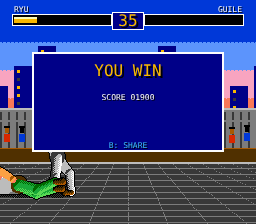
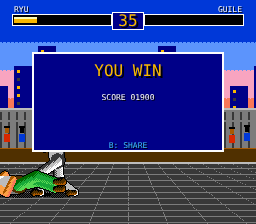
g37p: 16-bit Ryu vs Guile (HD vector fighters + PIXPASS); fix backwards knees in skelG IK
Claude-Session: https://claude.ai/code/session_01TLKWsn45b5mPjBKpKawYZm

Changed region(s): [[0.0, 0.6562, 0.3125, 0.9062]]

diff --git a/kit/cabinet/games/g37p.js b/kit/cabinet/games/g37p.js
@@ -1,0 +1,237 @@
+// NEEDS: art
+window.SIXBTN = true;
+// KEYS: Arrows move/crouch/jump. U I O = light/medium/heavy punch, J K L = light/medium/heavy kick (Z = medium punch, X = medium kick). Full move list: docs/G37-MOVELIST.md
+/* ===== G37 RYU vs GUILE: one-round fighter with the SF2 move lists for both characters, on the native per-frame 8-bit rig (pixrig.js, IK poses).
+   Inputs are real motion inputs read from a 40-frame command buffer: QCF (236), DP (623), QCB (214), charge back-forward (hold back >= TUNE.charge), charge down-up. 
+   Moves are frame-data tables (startup/active/recover, damage, hit/block stun, pushback, hit height) so they can be tuned like the real game.
+   ?char=guile plays Guile vs Ryu. BRIEF  genre: 1v1 fighter | win: KO or lead at the bell | bot/CPU: uses every move at the right range (zoning, anti-air, throws) ===== */
+const TUNE37 = { time:60, hp:100, sc:88, walk:46, back:38, wall:[22, 234], sep:22, charge:50, grav:560, jumpV:210, jumpX:62, buf:40, intro:1.5, ko:1.8, ai:{ react:[.1, .26], block:.5 } };
+const FY37 = 192, CH37 = 'ryu';
+/* move table: f=[startup,active,recover] frames @60, d=damage, hs/bs=hit/block stun frames, kb=pushback px, rx/ry=hitbox (px in front of body / px above ground), lvl high|mid|low, kd=knockdown */
+const NORMALS = {
+  sLP:{ pose:'jab', f:[3, 3, 6], d:3, hs:12, bs:8, kb:2, rx:[8, 32], ry:[48, 80], lvl:'mid' }, sMP:{ pose:'cross', f:[5, 4, 10], d:7, hs:16, bs:11, kb:3, rx:[8, 38], ry:[48, 80], lvl:'mid' }, sHP:{ pose:'hpunch', f:[7, 5, 16], d:12, hs:20, bs:14, kb:5, rx:[8, 44], ry:[46, 80], lvl:'mid' },
+  sLK:{ pose:'lkick', f:[4, 3, 8], d:3, hs:12, bs:8, kb:2, rx:[8, 38], ry:[8, 40], lvl:'mid' }, sMK:{ pose:'mkick', f:[6, 4, 12], d:8, hs:17, bs:12, kb:4, rx:[8, 44], ry:[22, 62], lvl:'mid' }, sHK:{ pose:'hkick', f:[9, 5, 18], d:13, hs:22, bs:15, kb:6, rx:[8, 52], ry:[40, 90], lvl:'mid' },
+  cLP:{ pose:'cjab', f:[3, 3, 6], d:3, hs:12, bs:8, kb:2, rx:[8, 32], ry:[24, 44], lvl:'mid' }, cMP:{ pose:'cjab', f:[5, 4, 10], d:7, hs:16, bs:11, kb:3, rx:[8, 38], ry:[24, 46], lvl:'mid' }, cHP:{ pose:'cupper', f:[6, 6, 20], d:12, hs:24, bs:12, kb:3, rx:[6, 30], ry:[20, 104], lvl:'mid', kd:true, anti:true },
+  cLK:{ pose:'clkick', f:[4, 3, 8], d:3, hs:12, bs:8, kb:2, rx:[8, 40], ry:[0, 14], lvl:'low' }, cMK:{ pose:'cmkick', f:[6, 4, 12], d:7, hs:16, bs:11, kb:3, rx:[8, 46], ry:[0, 16], lvl:'low' }, cHK:{ pose:'sweep', f:[8, 5, 26], d:12, hs:24, bs:14, kb:6, rx:[8, 58], ry:[0, 14], lvl:'low', kd:true },
+  jLP:{ pose:'jpunch', f:[2, 40, 3], d:4, hs:14, bs:9, kb:2, rx:[6, 30], ry:[-10, 52], lvl:'high', air:true }, jMP:{ pose:'jpunch', f:[3, 40, 3], d:8, hs:18, bs:12, kb:3, rx:[6, 34], ry:[-10, 52], lvl:'high', air:true }, jHP:{ pose:'jpunch', f:[4, 40, 3], d:11, hs:20, bs:14, kb:4, rx:[6, 38], ry:[-12, 54], lvl:'high', air:true },
+  jLK:{ pose:'jlkick', f:[2, 40, 3], d:4, hs:14, bs:9, kb:2, rx:[6, 34], ry:[-18, 34], lvl:'high', air:true }, jMK:{ pose:'jlkick', f:[3, 40, 3], d:8, hs:18, bs:12, kb:3, rx:[6, 40], ry:[-18, 36], lvl:'high', air:true }, jHK:{ pose:'jhkick', f:[4, 40, 3], d:11, hs:20, bs:14, kb:4, rx:[6, 46], ry:[-18, 40], lvl:'high', air:true },
+  closeHP:{ pose:'closeh', f:[5, 5, 16], d:13, hs:22, bs:12, kb:3, rx:[4, 28], ry:[40, 96], lvl:'mid' }, closeHK:{ pose:'mkick', f:[6, 4, 14], d:12, hs:20, bs:12, kb:3, rx:[4, 28], ry:[14, 52], lvl:'mid' } };
+/* specials, per character. spd = projectile px/s (L/M/H); dmg arrays are L/M/H */
+const SPECIALS = {
+  ryu:{ hadoken:{ pose:'hado', f:[11, 1, 34], proj:{ spd:[80, 110, 140], d:[8, 10, 12], hs:16, bs:11, kb:4, spawn:[26, 26] }, ry:[0, 0] },
+    shoryu:{ pose:'dp', f:[3, 14, 32], d:[10, 14, 18], hs:30, bs:16, kb:6, rx:[2, 30], ry:[10, 110], lvl:'mid', kd:true, vy:[185, 205, 225], vx:[24, 32, 40], inv:7 },
+    tatsu:{ pose:'tatsu', f:[9, 26, 16], d:[4, 4, 4], hits:[1, 2, 3], hs:22, bs:12, kb:3, rx:[0, 40], ry:[4, 70], lvl:'mid', kd:true, mv:[56, 74, 92], spin:true } },
+  guile:{ sonic:{ pose:'sonic', f:[10, 1, 26], proj:{ spd:[90, 120, 150], d:[8, 10, 12], hs:16, bs:11, kb:4, spawn:[28, 22] }, ry:[0, 0], charge:'b' },
+    flash:{ pose:'flash', f:[4, 22, 24], d:[10, 12, 14], hs:30, bs:16, kb:5, rx:[-6, 40], ry:[10, 118], lvl:'mid', kd:true, vy:[190, 205, 220], vx:[-26, -34, -42], inv:8, flip:true, charge:'d' } } };
+const THROWS = { ryu:{ fwd:{ d:14, name:'SEOI NAGE' }, back:{ d:12, name:'TOMOE NAGE' } }, guile:{ fwd:{ d:14, name:'JUDO THROW' }, back:{ d:12, name:'SUPLEX' } } };
+const BTN = ['p1', 'p2', 'p3', 'k1', 'k2', 'k3'];
+function mk37(x, ch) { return { x, ch, y:0, vy:0, vx:0, hp:TUNE37.hp, hpShow:TUNE37.hp, st:'idle', t:0, face:1, ph:0, flash:0, buf:[], prev:{}, chB:0, chD:0, lastB:{ n:0, at:-99 }, lastD:{ n:0, at:-99 }, fr:0, mv:null, stun:0, inv:0, cr:false, air:false, ai:0, plan:{}, hitDone:false, hits:0, lock:null, kb:0 }; }
+const dirNum = (i, face) => { const fx = ((i.ax !== undefined ? i.ax : (i.r ? 1 : 0) - (i.l ? 1 : 0)) * face), dy = i.d ? -1 : i.u ? 1 : (i.ay !== undefined && i.ay > .5 ? -1 : (i.ay < -.5 ? 1 : 0)); const f = fx > .3 ? 1 : fx < -.3 ? -1 : 0; return [[1, 2, 3], [4, 5, 6], [7, 8, 9]][1 + dy][f + 1]; };
+const subseq = (buf, seq, win, gap) => { let k = seq.length - 1, last = -1; for (let i = buf.length - 1; i >= Math.max(0, buf.length - win) && k >= 0; i--) { if (buf[i].d === seq[k] || (seq[k] === 6 && (buf[i].d === 3 || buf[i].d === 9) && k === seq.length - 1) || (seq[k] === 4 && buf[i].d === 7 && k === seq.length - 1)) { if (last >= 0 && last - i > gap) return false; last = i; k--; } } return k < 0; };
+const hasDir = (d, set) => set.includes(d);
+function buttons37(i) { return { p1:!!i.p1, p2:!!(i.p2 || i.a), p3:!!i.p3, k1:!!i.k1, k2:!!(i.k2 || i.b), k3:!!i.k3 }; }
+/* special detection at a button press: returns { id, str } or null */
+function special37(f, key) {
+  const str = +key[1] - 1, sp = SPECIALS[f.ch], b = f.buf, now = b[b.length - 1] || { d:5 }, punch = key[0] === 'p';
+  if (f.ch === 'ryu') { if (punch && subseq(b, [6, 2, 3], 22, 12)) return { id:'shoryu', str }; if (punch && (subseq(b, [2, 3, 6], 22, 14) || subseq(b, [2, 6], 14, 10))) return { id:'hadoken', str };
+    if (!punch && (subseq(b, [2, 1, 4], 22, 14) || subseq(b, [2, 4], 14, 10))) return { id:'tatsu', str }; }
+  else { const fwd = hasDir(now.d, [6, 3, 9]) || b.slice(-8).some(q => hasDir(q.d, [6, 3, 9])), up = hasDir(now.d, [7, 8, 9]) || b.slice(-8).some(q => hasDir(q.d, [7, 8, 9]));
+    if (punch && fwd && f.lastB.n >= TUNE37.charge && f.fr - f.lastB.at <= 12) return { id:'sonic', str }; if (!punch && up && f.lastD.n >= TUNE37.charge && f.fr - f.lastD.at <= 12) return { id:'flash', str }; }
+  return null; }
+function normal37(f, o, key) {
+  const str = +key[1] - 1, punch = key[0] === 'p', d = f.cr ? 2 : (f.buf.length ? f.buf[f.buf.length - 1].d : 5), close = Math.abs(o.x - f.x) < 34;
+  if (f.air) return (punch ? 'jP' : 'jK').replace('P', ['LP', 'MP', 'HP'][str]).replace('K', ['LK', 'MK', 'HK'][str]);
+  const pre = f.cr ? 'c' : 's', nm = pre + ['L', 'M', 'H'][str] + (punch ? 'P' : 'K');
+  if (!f.cr && close && str === 2) return punch ? 'closeHP' : 'closeHK'; return nm; }
+function throw37(S, f, o, key) {
+  const d = f.buf.length ? f.buf[f.buf.length - 1].d : 5, back = hasDir(d, [4, 1, 7]), fwd = hasDir(d, [6, 3, 9]);
+  if (!(back || fwd) || key[0] !== 'p' || key === 'p1' || f.air || f.cr) return false; if (Math.abs(o.x - f.x) > 28 || o.y > 4 || !['idle', 'walk', 'crouch', 'block'].includes(o.st)) return false;
+  f.st = 'grab'; f.t = 0; f.lock = { o, kind:fwd ? 'fwd' : 'back', x0:o.x }; o.st = 'held'; o.t = 0; sfx('catch'); return true; }
+function startMove(S, f, id, str, special) {
+  const C = special ? SPECIALS[f.ch][id] : NORMALS[id], S0 = special ? str : 0; const mv = { id, special, str:S0, C, t:0, hit:false, hitsDone:0, spawned:false, fl:C.f };
+  if (!special && C.air) { /* air attack lasts until landing */ } f.st = 'atk'; f.mv = mv; f.hitDone = false; sfx(special ? 'power' : (id.includes('K') ? 'swing' : 'punch'));
+  if (special && C.vy) { f.vy = C.vy[S0]; f.vx = C.vx[S0] * f.face; f.y = Math.max(f.y, 0.1); f.air = true; f.inv = C.inv; } if (special && C.mv) f.vx = C.mv[S0] * f.face; }
+const fdmg = (m) => m.special ? (Array.isArray(m.C.d) ? m.C.d[m.str] : m.C.d) : m.C.d;
+function boxHit37(f, o, m) {   /* is o inside f's active hitbox? */
+  const C = m.C, rx = C.rx, ry = C.ry; if (!rx) return false; const x0 = f.x + f.face * rx[0], x1 = f.x + f.face * rx[1], lo = Math.min(x0, x1), hi = Math.max(x0, x1);
+  const hb = o.st === 'knock' || o.st === 'ko' ? [0, 12] : o.cr || ['hitc', 'crouch'].includes(o.st) ? [0, 54] : [o.y, o.y + 84]; if (o.cr && o.st !== 'knock') hb[1] = 54 + o.y;
+  const ay0 = f.y + ry[0], ay1 = f.y + ry[1]; return hi > o.x - 11 && lo < o.x + 11 && ay1 > hb[0] && ay0 < hb[1]; }
+function applyHit37(S, f, o, m, dmg, hs, bs, kb, lvl, kd, proj) {
+  const back = o.buf.length && hasDir(o.buf[o.buf.length - 1].d, [4, 1, 7]), crouchBlk = o.buf.length && hasDir(o.buf[o.buf.length - 1].d, [1, 2, 3]);
+  const canBlock = ['idle', 'walk', 'crouch', 'block'].includes(o.st) && back && !o.air && (lvl !== 'low' || crouchBlk) && S.over <= 0;
+  const aiBlock = o.cpu && ['idle', 'walk', 'crouch', 'block'].includes(o.st) && o.plan.blk && (lvl !== 'low' || o.plan.crouch) && !o.air;
+  if (canBlock || aiBlock) { o.hp -= (m && m.special) || proj ? 1 : 0; o.st = 'block'; o.t = 0; o.stun = bs; o.cr = crouchBlk || (o.cpu && o.plan.crouch); o.vx = f.face * kb * 12; f.kb = -f.face * Math.max(2, kb) * 10; sfx('tick'); S.spk.push({ x:o.x - f.face * 8, y:FY37 - 54 - o.y, t:0, blk:true }); ENG.shake(S, 1); return 'block'; }
+  o.hp -= dmg; S.score += dmg * 10; sfx('hit'); const crouching = o.cr; o.cr = o.cr && !o.air; o.hit = 1;
+  if (kd || o.air) { o.st = 'knock'; o.t = 0; o.vy = 120 + (kd ? 40 : 0); o.vx = f.face * (50 + kb * 6); o.y = Math.max(o.y, .2); o.air = true; o.mv = null; o.lock = null; }
+  else { o.st = 'hit'; o.t = 0; o.stun = hs; o.vx = f.face * kb * 14; o.mv = null; o.cr = crouching; f.kb = -f.face * kb * 7; }
+  S.spk.push({ x:(f.x + o.x) / 2 + f.face * 8, y:FY37 - Math.min(70, (m && m.C.ry ? (m.C.ry[0] + m.C.ry[1]) / 2 : 54)) - f.y, t:0 }); burst(S, o.x, FY37 - 56 - o.y, W, 4); ENG.impact(S, dmg >= 11 || kd ? 'strong' : 'weak');
+  S.combo = S.last === f ? S.combo + 1 : 1; S.last = f; S.comboT = 1.3; if (o.hp <= 0) { o.hp = 0; o.st = 'knock'; o.vy = Math.max(o.vy, 150); o.vx = f.face * 70; o.air = true; o.y = Math.max(o.y, .3); S.over = .001; S.loser = o; sfx('die'); ENG.impact(S, { stop:.22, shake:10, flash:.6 }); } return 'hit'; }
+function spawnProj(S, f, m) { const P = m.C.proj; S.pr.push({ x:f.x + f.face * P.spawn[0], y:P.spawn[1], vx:f.face * P.spd[m.str], f:f, face:f.face, d:P.d[m.str], P, t:0, kind:f.ch === 'ryu' ? 'hado' : 'sonic', m }); sfx('shoot'); }
+function think37(S, me, foe, lvl) {   /* CPU / bot: returns a plan the step turns into walking, blocking, jumping and moves */
+  me.ai -= 1; if (me.ai > 0) return me.plan; const A = TUNE37.ai; me.ai = Math.round(60 * (A.react[0] + S.rng() * (A.react[1] - A.react[0])) / lvl); const dx = Math.abs(foe.x - me.x), P = {}, r = S.rng();
+  const foeAtk = foe.st === 'atk' && foe.mv, foeAir = foe.air && foe.st !== 'knock'; const ch = me.ch;
+  if (me.st === 'knock' || me.st === 'ko' || me.st === 'hit' || me.st === 'held') return (me.plan = P);
+  if (foeAtk && dx < 70 && r < A.block * lvl) { P.blk = true; P.crouch = foe.mv.C.lvl === 'low' || r < .3; return (me.plan = P); }
+  if (foeAir && dx < 60 && foe.vy < 40) { if (ch === 'ryu') P.move = 'shoryu'; else P.move = me.lastB.n >= TUNE37.charge || true ? 'flash' : 'cHP'; P.str = 1; P.fwd = 0; return (me.plan = P); }
+  if (dx > 118) { if (r < .4 && (ch === 'ryu' ? true : me.chB >= TUNE37.charge || true)) { P.move = ch === 'ryu' ? 'hadoken' : 'sonic'; P.str = Math.floor(S.rng() * 3); } else P.fwd = 1; }
+  else if (dx > 62) { if (r < .22) { P.move = ch === 'ryu' ? 'hadoken' : 'sonic'; P.str = Math.floor(S.rng() * 3); } else if (r < .3 && ch === 'ryu') { P.move = 'tatsu'; P.str = 1; } else if (r < .45) { P.jump = 1; P.fwd = 1; } else if (r < .6) P.move = ['sHK', 'sMK'][Math.floor(S.rng() * 2)]; else P.fwd = 1; }
+  else if (dx > 34) { if (r < .22) P.move = 'cHK'; else if (r < .42) P.move = ['sMP', 'sHP', 'sMK'][Math.floor(S.rng() * 3)]; else if (r < .5 && ch === 'ryu') { P.move = 'tatsu'; P.str = 0; } else if (r < .6) P.move = 'cMK'; else if (r < .68) P.back = 1; else P.fwd = r < .8 ? 1 : 0; }
+  else { if (r < .28) P.throw = r < .14 ? 'fwd' : 'back'; else if (r < .5) P.move = ['sLP', 'sMP', 'cLP', 'closeHP'][Math.floor(S.rng() * 4)]; else if (r < .6) P.move = 'cHP'; else if (r < .72) P.move = ['sLK', 'cLK', 'closeHK'][Math.floor(S.rng() * 3)]; else if (r < .82) P.back = 1; else P.move = 'sMK'; }
+  return (me.plan = P); }
+function exec37(S, f, o, P) {   /* run a CPU plan as if it were inputs */
+  if (!P) return; const ok = ['idle', 'walk', 'crouch'].includes(f.st) || (f.st === 'atk' && f.mv && f.mv.hit && !f.mv.special && P.move && SPECIALS[f.ch][P.move]);
+  if (P.blk) { f.cr = !!P.crouch; if (f.st === 'idle' || f.st === 'walk' || f.st === 'crouch') f.st = f.cr ? 'crouch' : 'idle'; }
+  if (!ok) return; if (P.throw && f.st !== 'atk') { f.buf.push({ d:P.throw === 'fwd' ? 6 : 4 }); if (throw37(S, f, o, 'p2')) { P.throw = null; return; } }
+  if (P.jump && !f.air && f.st !== 'atk') { f.vy = TUNE37.jumpV; f.vx = (P.fwd ? 1 : P.back ? -1 : 0) * f.face * TUNE37.jumpX; f.air = true; f.y = .1; f.st = 'jump'; sfx('jump'); P.jump = 0; return; }
+  if (P.move && !(f.st === 'atk' && !SPECIALS[f.ch][P.move])) { const sp = SPECIALS[f.ch][P.move]; if (sp) startMove(S, f, P.move, P.str || 0, true); else { f.cr = /^c/.test(P.move); startMove(S, f, P.move, 0, false); } P.move = null; return; }
+  if (f.st !== 'atk') { f.cr = !!P.crouch; const mvx = (P.fwd ? 1 : 0) - (P.back ? 1 : 0); f.x += mvx * f.face * (mvx < 0 ? TUNE37.back : TUNE37.walk) / 60; f.st = mvx ? 'walk' : (f.cr ? 'crouch' : 'idle'); if (mvx) f.ph += mvx * .18; } }
+/* ===== 16-bit tier: same sim + same IK skeleton (PRIG.skelG), drawn as smooth shaded vector fighters on the 3x HD canvas, then PIXPASS posterises to a 256x224 grid ===== */
+window.GLPOST_ON = false; const PIX = 3, PLV = 8;
+const PIXC = document.createElement('canvas'), PIXX = PIXC.getContext('2d', { willReadFrequently:true });
+function PIXPASS(g) { const cv = g.canvas, sw = Math.round(cv.width / PIX), sh = Math.round(cv.height / PIX); if (PIXC.width !== sw || PIXC.height !== sh) { PIXC.width = sw; PIXC.height = sh; }
+  g.save(); g.setTransform(1, 0, 0, 1, 0, 0); PIXX.imageSmoothingEnabled = true; PIXX.imageSmoothingQuality = 'high'; PIXX.clearRect(0, 0, sw, sh); PIXX.drawImage(cv, 0, 0, sw, sh);
+  const im = PIXX.getImageData(0, 0, sw, sh), d = im.data, q = 255 / (PLV - 1); for (let i = 0; i < d.length; i += 4) for (let c = 0; c < 3; c++) { let v = (d[i + c] - 128) * 1.08 + 128; v = v < 0 ? 0 : v > 255 ? 255 : v; d[i + c] = Math.round(v / q) * q; }
+  PIXX.putImageData(im, 0, 0); g.imageSmoothingEnabled = false; g.clearRect(0, 0, cv.width, cv.height); g.drawImage(PIXC, 0, 0, cv.width, cv.height); g.imageSmoothingEnabled = true; g.restore(); }
+const OL = '#0b0d14';
+function lg(g, x0, y0, x1, y1, stops) { const r = g.createLinearGradient(x0, y0, x1, y1); stops.forEach((s, i) => r.addColorStop(i / (stops.length - 1), s)); return r; }
+/* tapered limb: outline pass then lit gradient across the limb (light from upper-left) */
+function limb(g, a, b, w1, w2, cols, fl) {
+  const dx = b[0] - a[0], dy = b[1] - a[1], n = Math.hypot(dx, dy) || 1; let nx = -dy / n, ny = dx / n; if (nx + ny > 0) { nx = -nx; ny = -ny; }   // normal toward the lit side
+  const path = e => { g.beginPath(); g.moveTo(a[0] + nx * (w1 + e), a[1] + ny * (w1 + e)); g.lineTo(b[0] + nx * (w2 + e), b[1] + ny * (w2 + e)); g.arc(b[0], b[1], w2 + e, Math.atan2(ny, nx), Math.atan2(-ny, -nx), false); g.lineTo(a[0] - nx * (w1 + e), a[1] - ny * (w1 + e)); g.arc(a[0], a[1], w1 + e, Math.atan2(-ny, -nx), Math.atan2(ny, nx), false); g.closePath(); };
+  g.fillStyle = OL; path(0.9); g.fill(); const mx = (a[0] + b[0]) / 2, my = (a[1] + b[1]) / 2, w = (w1 + w2) / 2;
+  g.fillStyle = fl ? '#fff' : lg(g, mx + nx * w, my + ny * w, mx - nx * w, my - ny * w, cols); path(0); g.fill(); }
+function blob(g, x, y, rx, ry, cols, fl, rot) { g.save(); g.translate(x, y); g.rotate(rot || 0); g.fillStyle = OL; g.beginPath(); g.ellipse(0, 0, rx + .9, ry + .9, 0, 0, 6.283); g.fill(); g.fillStyle = fl ? '#fff' : lg(g, -rx, -ry, rx, ry, cols); g.beginPath(); g.ellipse(0, 0, rx, ry, 0, 0, 6.283); g.fill(); g.restore(); }
+function poly(g, pts, cols, fl) { g.beginPath(); pts.forEach((p, i) => i ? g.lineTo(p[0], p[1]) : g.moveTo(p[0], p[1])); g.closePath(); g.lineJoin = 'round'; g.lineWidth = 1.8; g.strokeStyle = OL; g.stroke(); const xs = pts.map(p => p[0]), ys = pts.map(p => p[1]); g.fillStyle = fl ? '#fff' : lg(g, Math.min(...xs), Math.min(...ys), Math.max(...xs), Math.max(...ys), cols); g.fill(); }
+function fighterHD(S, g, f, sh, sy) {
+  const C = TUNE37, r = poseOf37(S, f), J = PRIG.skelG(r.pose, r.env, r.ph, r.rot), k = C.sc / 150, ry = f.ch === 'ryu', fl = f.flash > 0, fc = f.face, ox = f.x + sh, oy = FY37 - f.y + sy;
+  const P = n => [ox + fc * J[n][0] * k, oy - J[n][1] * k], H = P('head'), Hp = P('hip'), Sh = P('sh'), big = ry ? 1 : 1.16, w = v => v * k * big;
+  const skin = ry ? ['#f6c58e', '#e0a070', '#a8683e'] : ['#f2c49a', '#d89c72', '#9c6040'], gi = ry ? ['#ffffff', '#e4e0da', '#8f8c9c'] : ['#e0c690', '#c0a06a', '#7a6038'], pants = ry ? ['#ffffff', '#d8d4d0', '#8a8898'] : ['#7c9c4c', '#587a38', '#2e4620'], glove = ['#ff6a50', '#d02828', '#7a1018'], boot = ry ? ['#e8c4a0', '#c08a60', '#7a4a2c'] : ['#6a6a78', '#3a3a48', '#1a1a24'];
+  const sc = f.st === 'ko' || f.st === 'knock' ? 1.3 : 1; g.save(); g.fillStyle = 'rgba(0,0,0,.35)'; g.beginPath(); g.ellipse(f.x + sh, FY37 + 2, Math.max(8, 17 - f.y * .08) * sc * 1.1, 3.4, 0, 0, 6.283); g.fill(); g.restore();
+  g.lineCap = 'round';
+  limb(g, Sh, P('elbB'), w(5.5), w(4.6), ry ? gi : skin, fl); limb(g, P('elbB'), P('handB'), w(4.6), w(4.2), ry ? glove : skin, fl); blob(g, P('handB')[0], P('handB')[1], w(5.2), w(5.2), ry ? glove : skin, fl);
+  limb(g, Hp, P('kneeB'), w(8.6), w(6.4), pants, fl); limb(g, P('kneeB'), P('footB'), w(6.2), w(4.4), pants, fl); const fb = P('footB'); blob(g, fb[0] + fc * w(4), fb[1] - w(1.2), w(6.4), w(3.2), boot, fl);
+  /* torso: tapered trapezoid, wider at the shoulders, with belt/waistband */
+  const ax = Sh[0] - Hp[0], ay = Sh[1] - Hp[1], an = Math.hypot(ax, ay) || 1, tx = -ay / an, ty = ax / an, ws = w(15), wh = w(11.5);
+  poly(g, [[Hp[0] + tx * wh, Hp[1] + ty * wh], [Sh[0] + tx * ws, Sh[1] + ty * ws], [Sh[0] - tx * ws, Sh[1] - ty * ws], [Hp[0] - tx * wh, Hp[1] - ty * wh]], gi, fl);
+  const bx = Hp[0] + ax * .12, by = Hp[1] + ay * .12; poly(g, [[bx + tx * wh, by + ty * wh], [bx + tx * wh * 1.02 + ax * .14, by + ty * wh + ay * .14], [bx - tx * wh + ax * .14, by - ty * wh + ay * .14], [bx - tx * wh, by - ty * wh]], ry ? ['#38384a', '#14141c', '#050508'] : ['#6a5a3a', '#3a2e1c', '#1a1208'], fl);
+  if (ry) { const nk = [Sh[0] + ax * .02, Sh[1] + ay * .02]; g.strokeStyle = '#8f8c9c'; g.lineWidth = 1; g.beginPath(); g.moveTo(nk[0] - tx * w(2), nk[1] - ty * w(2)); g.lineTo(Hp[0] + ax * .5 + tx * w(1), Hp[1] + ay * .5 + ty * w(1)); g.stroke(); }
+  else { g.fillStyle = '#c8c8d0'; g.fillRect(Sh[0] - ax * .1 - 1, Sh[1] - ay * .1, 1.6, 2.4); }
+  limb(g, Hp, P('kneeA'), w(9), w(6.8), pants, fl); limb(g, P('kneeA'), P('footA'), w(6.6), w(4.6), pants, fl); const fa = P('footA'); blob(g, fa[0] + fc * w(4), fa[1] - w(1.2), w(6.8), w(3.4), boot, fl);
+  /* head: neck, face, hair, headband tails / flat-top */
+  limb(g, Sh, H, w(5), w(4.6), skin, fl); blob(g, H[0], H[1], w(8.4), w(9.4), skin, fl);
+  if (ry) { g.fillStyle = fl ? '#fff' : '#201418'; g.beginPath(); g.ellipse(H[0] - fc * w(1.2), H[1] - w(3), w(8.8), w(7), 0, Math.PI, 6.283); g.fill(); g.fillStyle = fl ? '#fff' : '#e03030'; g.fillRect(H[0] - w(9), H[1] - w(4.4), w(18), w(3.2)); const t = S.rt * 9; for (let i = 0; i < 2; i++) { g.strokeStyle = fl ? '#fff' : '#e03030'; g.lineWidth = w(2); g.beginPath(); g.moveTo(H[0] - fc * w(8), H[1] - w(3)); g.lineTo(H[0] - fc * (w(16) + i * 3), H[1] - w(3) + Math.sin(t + i) * 2 + i * 3); g.stroke(); } }
+  else { g.fillStyle = fl ? '#fff' : '#f4dc58'; g.beginPath(); g.moveTo(H[0] - w(8.4), H[1] - w(2)); g.lineTo(H[0] - w(7), H[1] - w(13)); g.lineTo(H[0] + w(8), H[1] - w(13)); g.lineTo(H[0] + w(8.6), H[1] - w(3)); g.lineTo(H[0] + w(4), H[1] - w(5)); g.lineTo(H[0] - w(4), H[1] - w(5)); g.closePath(); g.lineWidth = 1.6; g.strokeStyle = OL; g.stroke(); g.fill(); }
+  const ex = H[0] + fc * w(4.6), ey = H[1] - w(.6); g.fillStyle = fl ? '#fff' : OL; g.fillRect(ex - .5, ey - w(1.4), 1.5, w(2.6)); g.fillRect(ex - fc * w(3.2) - .5, ey - w(1.4), 1.5, w(2.6)); g.fillRect(ex - fc * w(1) - w(2), ey - w(3.4), w(7) * 0.9, 1); g.fillRect(ex - w(1) + fc, H[1] + w(4.6), w(3.4), 1);
+  blob(g, P('handA')[0], P('handA')[1], w(5.6), w(5.6), ry ? glove : skin, fl); limb(g, Sh, P('elbA'), w(5.8), w(4.8), ry ? gi : skin, fl); limb(g, P('elbA'), P('handA'), w(4.8), w(4.4), ry ? glove : skin, fl); blob(g, P('handA')[0], P('handA')[1], w(5.6), w(5.6), ry ? glove : skin, fl);
+}
+function drawHD37(S, g) {
+  const C = TUNE37, sh = S.ecam && S.ecam.sh > 0 ? (S.rng() - .5) * S.ecam.sh * .5 : 0, sy = S.ecam && S.ecam.sh > 3 ? (S.rng() - .5) * S.ecam.sh * .3 : 0, t = S.rt;
+  g.fillStyle = lg(g, 0, 0, 0, 112, ['#14246a', '#3a5cc8', '#c86aa8', '#ffa860']); g.fillRect(0, 0, 256, 112);
+  const sun = g.createRadialGradient(176, 104, 2, 176, 104, 70); sun.addColorStop(0, 'rgba(255,230,160,.95)'); sun.addColorStop(.25, 'rgba(255,170,90,.5)'); sun.addColorStop(1, 'rgba(255,120,80,0)'); g.fillStyle = sun; g.fillRect(0, 20, 256, 100);
+  for (let i = 0; i < 14; i++) { const bx = i * 22 - ((t * 2) % 22) + sh * .3, bh = 22 + ((i * 37) % 5) * 11; g.fillStyle = lg(g, bx, 110 - bh, bx + 18, 110, ['#3a3a7a', '#1c1c46']); g.fillRect(bx, 110 - bh, 18, bh + 4); for (let wy = 0; wy < bh - 4; wy += 7) { g.fillStyle = (i + wy) % 3 ? '#ffe070' : '#4a4a8a'; g.fillRect(bx + 3, 110 - bh + 4 + wy, 3, 3); g.fillRect(bx + 10, 110 - bh + 4 + wy, 3, 3); } }
+  g.fillStyle = lg(g, 0, 108, 0, 162, ['#2a2640', '#4a3a58', '#7a5a60']); g.fillRect(0, 108, 256, 54); g.fillStyle = '#9a8a9a'; g.fillRect(0, 108, 256, 1.5);
+  for (let x = 0; x < 256; x += 8) { g.fillStyle = '#3a3050'; g.fillRect(x + sh * .5, 112, 2, 38); }
+  for (let i = 0; i < 20; i++) { const cx = i * 14 + 5 + sh * .6, bob = Math.sin(t * 5 + i * 1.7) * (S.over > 0 || S.combo > 1 ? 3 : 1), col = ['#d03030', '#3050d0', '#30a050', '#e0c030', '#a050c0'][i % 5]; g.fillStyle = OL; g.beginPath(); g.ellipse(cx + 1, 128 + bob, 4.6, 6.4, 0, 0, 6.283); g.fill(); g.fillStyle = col; g.beginPath(); g.ellipse(cx + 1, 128 + bob, 3.8, 5.6, 0, 0, 6.283); g.fill(); g.fillStyle = ['#f0c090', '#d89c70', '#a86a48'][i % 3]; g.beginPath(); g.arc(cx + 1, 121 + bob, 3.2, 0, 6.283); g.fill(); }
+  g.fillStyle = lg(g, 0, 148, 0, 224, ['#c88a5a', '#a06a42', '#6a4228', '#3a2218']); g.fillRect(0, 148, 256, 76); g.fillStyle = '#e8b078'; g.fillRect(0, 148, 256, 1.4);
+  g.strokeStyle = 'rgba(40,20,10,.45)'; g.lineWidth = .7; for (let y = 0; y < 8; y++) { g.beginPath(); g.moveTo(0, 156 + y * y * 1.1 + y * 4); g.lineTo(256, 156 + y * y * 1.1 + y * 4); g.stroke(); } for (let i = -8; i < 16; i++) { g.beginPath(); g.moveTo(128 + (i - 4) * 14, 150); g.lineTo(128 + (i - 4) * 46, 224); g.stroke(); }
+  const fs = [S.p1, S.p2].sort((p, q) => (p.st === 'knock' || p.st === 'ko') - (q.st === 'knock' || q.st === 'ko')); for (const f of fs) fighterHD(S, g, f, sh, sy);
+  g.save(); g.globalCompositeOperation = 'lighter';
+  for (const p of S.pr) { const x = p.x + sh, y = FY37 - p.y - 4; if (p.kind === 'hado') { const r = 12 + (Math.floor(p.t * 20) & 1) * 2, gr = g.createRadialGradient(x, y, 1, x, y, r * 1.5); gr.addColorStop(0, 'rgba(255,255,255,1)'); gr.addColorStop(.35, 'rgba(120,210,255,.9)'); gr.addColorStop(1, 'rgba(40,90,255,0)'); g.fillStyle = gr; g.beginPath(); g.arc(x, y, r * 1.5, 0, 6.283); g.fill(); for (let q = 1; q < 5; q++) { g.fillStyle = 'rgba(120,200,255,' + (.5 - q * .1) + ')'; g.beginPath(); g.ellipse(x - p.face * (r + q * 6), y, 6 - q, 4 - q * .6, 0, 0, 6.283); g.fill(); } }
+    else { for (let q = 0; q < 3; q++) { g.strokeStyle = ['rgba(255,240,140,.95)', 'rgba(210,150,255,.7)', 'rgba(255,255,255,.9)'][q]; g.lineWidth = 3 - q; g.beginPath(); g.arc(x - p.face * 8, y, 18 - q * 2.5, p.face > 0 ? -1.15 : Math.PI - 1.15, p.face > 0 ? 1.15 : Math.PI + 1.15); g.stroke(); } } }
+  for (const s of S.spk) { const x = s.x + sh, y = s.y, r = 6 + s.t * 70, gr = g.createRadialGradient(x, y, 0, x, y, r); gr.addColorStop(0, 'rgba(255,255,255,' + Math.max(0, 1 - s.t * 3) + ')'); gr.addColorStop(.4, (s.blk ? 'rgba(120,230,255,.6)' : 'rgba(255,220,80,.6)')); gr.addColorStop(1, 'rgba(255,120,40,0)'); g.fillStyle = gr; g.beginPath(); g.arc(x, y, r, 0, 6.283); g.fill(); }
+  g.restore();
+  const bar = (x, wd, f, rev) => { const cur = wd * f.hp / C.hp, tr = wd * f.hpShow / C.hp; g.fillStyle = '#fff'; g.fillRect(x - 2, 13, wd + 4, 13); g.fillStyle = OL; g.fillRect(x - 1, 14, wd + 2, 11); g.fillStyle = '#d02828'; g.fillRect(rev ? x + wd - tr : x, 16, tr, 7); g.fillStyle = lg(g, 0, 16, 0, 23, ['#fff080', '#f0c020', '#c08010']); g.fillRect(rev ? x + wd - cur : x, 16, cur, 7); };
+  bar(14, 96, S.p1, false); bar(146, 96, S.p2, true); g.fillStyle = '#fff'; g.fillRect(112, 11, 32, 19); g.fillStyle = lg(g, 0, 12, 0, 29, ['#303a8a', '#10143a']); g.fillRect(113, 12, 30, 17);
+}
+
+const GAME = kit({ id:'g37p', t1:'RYU VS', t2:'GUILE', sub:'16-BIT. EVERY MOVE.', seed:937, off:37, secs:60, music:MUS(156, -16, true),
+  setup(S) { const q = new URLSearchParams(location.search).get('char'), me = q === 'guile' ? 'guile' : 'ryu'; S.p1 = mk37(78, me); S.p2 = mk37(178, me === 'ryu' ? 'guile' : 'ryu'); S.p2.face = -1; S.p2.cpu = true; S.pr = []; S.spk = []; S.intro = 0; S.over = 0; S.loser = null; S.combo = 0; S.comboT = 0; S.last = null; S.rt = 0; S.timeLeft = TUNE37.time; S.fight = false; S.log = ''; S.throwName = ''; S.dummy = !!new URLSearchParams(location.search).get('dummy'); },
+  step(S, dt, inp) { const C = TUNE37, A = S.p1, B = S.p2; S.rt += dt;
+    if (S.over > 0) { S.over += dt; if (S.over > C.ko) return finish(S, S.loser === B ? 'YOU WIN' : 'YOU LOSE', S.loser === B ? Math.round(A.hp) * 5 : 0); }
+    S.intro += dt; if (S.intro < C.intro) { A.ph += dt * 4; B.ph += dt * 4; return; } if (!S.fight) { S.fight = true; sfx('go'); }
+    if (S.over <= 0) { S.timeLeft -= dt; if (S.timeLeft <= 0) { S.timeLeft = 0; S.over = .001; S.loser = A.hp >= B.hp ? B : A; } }
+    for (const [f, o] of [[A, B], [B, A]]) { f.fr++; f.face = f.lock || ['atk', 'grab'].includes(f.st) && f.mv ? f.face : (o.x >= f.x ? 1 : -1); if (f.st !== 'atk') f.face = o.x >= f.x ? 1 : -1; f.flash = Math.max(0, f.flash - dt); f.hpShow += (f.hp - f.hpShow) * Math.min(1, dt * 2.2); if (f.inv > 0) f.inv--; f.cr = f.cr && !f.air;
+      const free = S.over <= 0 && !['ko', 'knock', 'held'].includes(f.st); let I = {}, plan = null;
+      if (f === A && !S.att && !S.botOn) I = inp; else if (f === A) { I = inp.cmdI || {}; plan = think37(S, f, o, 1.0); } else plan = S.dummy ? {} : think37(S, f, o, .5);
+      const d = plan ? 5 : dirNum(I, f.face); f.buf.push({ d }); if (f.buf.length > C.buf) f.buf.shift();
+      const backNow = hasDir(d, [1, 4, 7]), downNow = hasDir(d, [1, 2, 3]), upNow = hasDir(d, [7, 8, 9]);
+      if (backNow) f.chB++; else if (f.chB) { f.lastB = { n:f.chB, at:f.fr }; f.chB = 0; } if (downNow) f.chD++; else if (f.chD) { f.lastD = { n:f.chD, at:f.fr }; f.chD = 0; }
+      const bt = plan ? {} : buttons37(I), pressed = []; for (const k of BTN) if (bt[k] && !f.prev[k]) pressed.push(k); f.prev = bt;
+      if (!free) { if (f.st === 'ko' || f.st === 'knock') {} }
+      // ---- state machine
+      if (f.st === 'hit' || f.st === 'block') { f.stun--; if (f.stun <= 0) { f.st = f.cr ? 'crouch' : 'idle'; } f.t++; }
+      else if (f.st === 'held') { f.t++; }
+      else if (f.st === 'knock') { f.t++; }
+      else if (f.st === 'ko') { f.t++; if (f.t > 34 && S.over <= 0) { f.st = 'getup'; f.t = 0; f.inv = 24; } }
+      else if (f.st === 'getup') { f.t++; if (f.t > 18) { f.st = 'idle'; f.t = 0; } }
+      else if (f.st === 'grab') { f.t++; const L = f.lock; const T = 28; const k = Math.min(1, f.t / T);
+        if (f.t === 12) { sfx('punch'); S.throwName = THROWS[f.ch][L.kind].name; S.throwT = 1.2; }
+        if (f.t >= 12) { const p = (f.t - 12) / (T - 12); const ox = L.kind === 'fwd' ? f.x + f.face * 18 - f.face * 44 * p : f.x + f.face * 18 + f.face * 14 * p; L.o.x = ox; L.o.y = Math.sin(Math.min(1, p) * Math.PI) * (L.kind === 'fwd' ? 50 : 34); }
+        if (f.t >= T) { const o2 = L.o; o2.st = 'knock'; o2.t = 0; o2.vy = L.kind === 'fwd' ? 60 : 90; o2.vx = (L.kind === 'fwd' ? -1 : 1) * f.face * 30; o2.air = true; o2.y = Math.max(o2.y, .3); o2.hp -= THROWS[f.ch][L.kind].d; S.score += 140; ENG.impact(S, 'strong'); sfx('hit'); if (o2.hp <= 0) { o2.hp = 0; S.over = .001; S.loser = o2; } f.st = 'idle'; f.lock = null; } }
+      else if (f.st === 'atk') {
+        const m = f.mv, Cc = m.C; m.t++; const [s, a, r] = Cc.f; const act = m.t > s && m.t <= s + a, total = s + a + r;
+        if (m.special && Cc.proj && m.t === s && !m.spawned) { m.spawned = true; spawnProj(S, f, m); }
+        if (act && !m.special && !f.hitDone && boxHit37(f, o, m) && o.inv <= 0 && !['ko', 'held', 'getup'].includes(o.st)) { f.hitDone = true; m.hit = true; const res = applyHit37(S, f, o, m, Cc.d, Cc.hs, Cc.bs, Cc.kb, Cc.lvl, Cc.kd, false); f.hold = res === 'hit' ? 6 : 3; }
+        if (act && m.special && !Cc.proj) { const hits = Cc.hits ? Cc.hits[m.str] : 1, every = Cc.hits ? Math.floor(a / hits) : a; if (m.hitsDone < hits && (m.t - s) % Math.max(1, every) === 1 && boxHit37(f, o, m) && o.inv <= 0 && !['ko', 'held', 'getup'].includes(o.st)) { m.hitsDone++; const last = m.hitsDone >= hits; m.hit = true; applyHit37(S, f, o, m, Array.isArray(Cc.d) ? Cc.d[Cc.hits ? 0 : m.str] : Cc.d, Cc.hs, Cc.bs, last ? Cc.kb : 1, Cc.lvl, last && Cc.kd, false); if (!last && o.st === 'hit') o.stun = 8; } }
+        if (Cc.mv) { f.x += f.vx * (1 / 60); if (m.t > s + a) f.vx = 0; } if (!Cc.air && !Cc.vy && !Cc.mv) f.vx = 0;
+        if (m.t >= total && !(Cc.air && f.air)) { f.st = f.air ? 'jump' : (f.cr ? 'crouch' : 'idle'); f.mv = null; if (!f.air) f.vx = 0; f.hold = 0; } }
+      else if (free && f.st !== 'atk') {
+        const hold = (S.fight && !f.air);
+        if (pressed.length && !plan) { let did = false; for (const k of pressed) { const sp = special37(f, k); if (sp) { startMove(S, f, sp.id, sp.str, true); did = true; break; } if (throw37(S, f, o, k)) { did = true; break; } const id = normal37(f, o, k); if (id) { f.cr = f.cr || /^c/.test(id); startMove(S, f, id, 0, false); did = true; break; } } }
+        if (plan) exec37(S, f, o, plan);
+        if (f.st !== 'atk' && f.st !== 'grab') {
+          const mvx = plan ? 0 : (I.ax !== undefined ? I.ax : (I.r ? 1 : 0) - (I.l ? 1 : 0)) * f.face, wantJump = !plan && upNow && !f.air;
+          if (wantJump) { f.vy = C.jumpV; f.vx = (hasDir(d, [9]) ? 1 : hasDir(d, [7]) ? -1 : 0) * f.face * C.jumpX; f.air = true; f.y = .1; f.st = 'jump'; sfx('jump'); }
+          else if (!f.air && !plan) { f.cr = downNow; f.st = f.cr ? 'crouch' : (mvx ? 'walk' : (backNow ? 'idle' : 'idle')); if (!f.cr) { f.x += mvx * (mvx < 0 ? C.back : C.walk) / 60 * f.face; if (mvx) f.ph += mvx * f.face * .2 * f.face; } } }
+      }
+      if (f.st === 'idle' || f.st === 'crouch' || f.st === 'walk') f.ph += .05;
+      // airborne physics
+      if (f.air) { f.vy -= C.grav * dt; f.y += f.vy * dt; f.x += f.vx * dt; if (f.y <= 0 && f.vy < 0) { f.y = 0; f.air = false; burst(S, f.x, FY37, L, 3); sfx('land'); f.vy = 0;
+          if (f.st === 'knock') { f.st = 'ko'; f.t = 0; f.vx = 0; ENG.shake(S, 3); } else { if (f.st === 'atk' && f.mv && (f.mv.C.air || f.mv.C.vy)) { f.st = 'idle'; f.mv = null; } else if (f.st === 'jump') f.st = 'idle'; f.vx = 0; } } }
+      else if (f.vx && ['hit', 'block'].includes(f.st)) { f.x += f.vx * dt; f.vx *= .86; if (Math.abs(f.vx) < 2) f.vx = 0; } else if (f.st === 'ko') f.vx = 0;
+      if (f.kb) { f.x += f.kb * dt; f.kb *= .8; if (Math.abs(f.kb) < 1) f.kb = 0; } if (f.hp <= 0 && f.st === 'ko') f.inv = 99; }
+    if (S.dummy) { B.hp = TUNE37.hp; A.hp = TUNE37.hp; S.timeLeft = TUNE37.time; S.over = 0; }   /* ?dummy=1: CPU stands still and nobody dies (move-list test) */
+    // projectiles
+    for (const p of S.pr) { p.t += dt; p.x += p.vx * dt; const o = p.f === A ? B : A; const hb = o.cr ? [0, 54] : [o.y, o.y + 84];
+      if (Math.abs(p.x - o.x) < 13 && p.y + 8 > hb[0] && p.y - 8 < hb[1] && o.inv <= 0 && !['ko', 'knock', 'getup', 'held'].includes(o.st)) { p.dead = true; applyHit37(S, p.f, o, null, p.d, p.P.hs, p.P.bs, p.P.kb, 'mid', false, true); } if (p.x < -30 || p.x > 290) p.dead = true; }
+    for (let i = 0; i < S.pr.length; i++) for (let j = i + 1; j < S.pr.length; j++) if (S.pr[i].f !== S.pr[j].f && Math.abs(S.pr[i].x - S.pr[j].x) < 14) { S.pr[i].dead = S.pr[j].dead = true; S.spk.push({ x:S.pr[i].x, y:FY37 - 28, t:0 }); sfx('boom'); }
+    S.pr = S.pr.filter(p => !p.dead);
+    if (Math.abs(A.x - B.x) < C.sep && A.y < 20 && B.y < 20 && !['held'].includes(A.st) && !['held'].includes(B.st) && A.st !== 'grab' && B.st !== 'grab') { const m = (A.x + B.x) / 2, s = A.x <= B.x ? 1 : -1; A.x = m - s * C.sep / 2; B.x = m + s * C.sep / 2; }
+    for (const f of [A, B]) f.x = clamp(f.x, C.wall[0], C.wall[1]); S.comboT -= dt; if (S.comboT <= 0) S.combo = 0; if (S.throwT > 0) S.throwT -= dt; for (const s of S.spk) s.t += dt; S.spk = S.spk.filter(s => s.t < .22); },
+  draw(S) { const C = TUNE37, sh = S.ecam && S.ecam.sh > 0 ? Math.round((S.rng() - .5) * S.ecam.sh * .5) : 0, sy = S.ecam && S.ecam.sh > 3 ? Math.round((S.rng() - .5) * S.ecam.sh * .3) : 0;
+    rect(0, 0, 256, 224, K); const bands = [B, B, B, SKY, SKY, PK, PK, O]; for (let i = 0; i < 8; i++) { rect(0, i * 14, 256, 14, bands[i]); if (i) for (let x = (i % 2) * 2; x < 256; x += 4) px(x, i * 14, bands[i - 1]); }
+    for (let i = 0; i < 12; i++) { const bx = i * 24 - ((S.rt * 2) % 24) + sh * .3, bh = 24 + ((i * 37) % 5) * 10; rect(bx, 110 - bh, 18, bh + 4, N); for (let w = 0; w < bh; w += 8) rect(bx + 3, 110 - bh + 4 + w, 3, 3, (i + w) % 3 ? Y : DG); }
+    rect(0, 108, 256, 54, D); rect(0, 108, 256, 2, L); for (let x = 0; x < 256; x += 8) rect(x + sh * .5, 112, 2, 40, DG); rect(0, 120, 256, 2, D);
+    for (let i = 0; i < 18; i++) { const cx = i * 15 + 6 + sh * .6, bob = Math.round(Math.sin(S.rt * 5 + i * 1.7) * (S.over > 0 || S.combo > 1 ? 3 : 1)), col = [R, B, GR, Y, PU][i % 5]; rect(cx - 2, 132 + bob, 6, 8, col); rect(cx - 1, 126 + bob, 4, 5, i % 3 ? S : T); rect(cx - 2, 124 + bob, 6, 2, K); }
+    rect(0, 148, 256, 14, M); rect(0, 148, 256, 1, T); rect(0, 162, 256, 62, DG); for (let y = 0; y < 62; y += 6) rect(0, 162 + y, 256, 1, D);
+    for (let i = -6; i < 14; i++) { const x0 = 128 + (i - 4) * 14, x1 = 128 + (i - 4) * 40; for (let t = 0; t < 1; t += .02) px(x0 + (x1 - x0) * t + sh, 162 + t * 62, D); } rect(0, 162, 256, 2, L);
+    const fs = [S.p1, S.p2].sort((p, q) => (p.st === 'knock' || p.st === 'ko') - (q.st === 'knock' || q.st === 'ko'));
+    for (const f of fs) { const w = f.st === 'ko' ? 30 : Math.max(8, 17 - f.y * .08); for (let y = -3; y <= 3; y++) for (let x = -Math.round(w); x <= w; x++) if ((x * x) / (w * w) + (y * y) / 10 < 1 && (x + y) % 2 === 0) px(f.x + x + sh, FY37 + 2 + y, K); }
+    for (const f of fs) { const r = poseOf37(S, f); PRIG.draw('fighter', f.ch, r.pose, f.x + sh, FY37 - f.y + sy, f.face, r.ph, { sc:C.sc, flash:f.flash > 0 ? 1 : 0, env:r.env, rot:r.rot }); }
+    for (const p of S.pr) { const x = p.x + sh, y = FY37 - p.y - 4; if (p.kind === 'hado') { const r = 11 + (Math.floor(p.t * 20) & 1) * 2; for (let a = 0; a < 6.283; a += .1) for (let q = 0; q < r; q += 1) px(x + Math.cos(a) * q * 1.3, y + Math.sin(a) * q, q > r - 3 ? CY : q > r - 5 ? SKY : W); for (let k = 1; k < 4; k++) { rect(x - p.face * (r + k * 5) - 2, y + (k % 2 ? 2 : -3), 5, 2, k % 2 ? SKY : CY); } }
+      else { for (let a = -1.2; a < 1.2; a += .08) { const rr = 19; for (let q = 0; q < 4; q++) px(x + Math.cos(a) * (rr - q) * p.face * .55, y + Math.sin(a) * (rr - q), q < 2 ? Y : V); } rect(x - 1, y - 1, 3, 3, W); } }
+    for (const s of S.spk) { const x = s.x + sh, y = s.y, r = 4 + s.t * 60, c = s.blk ? CY : Y; for (let k = 0; k < 10; k++) { const a = k / 10 * 6.283, r2 = k % 2 ? r : r * .5; for (let q = r2 * .4; q < r2; q += 1) px(x + Math.cos(a) * q, y + Math.sin(a) * q, k % 3 ? c : W); } if (s.t < .08) rect(x - 3, y - 3, 7, 7, W); }
+    const bar = (x, w, f, rev) => { rect(x - 2, 14, w + 4, 12, W); rect(x - 1, 15, w + 2, 10, K); const cur = Math.round(w * f.hp / C.hp), tr = Math.round(w * f.hpShow / C.hp); rect(rev ? x + w - tr : x, 17, tr, 6, R); rect(rev ? x + w - cur : x, 17, cur, 6, f.hp > 30 ? Y : (Math.floor(S.rt * 6) & 1 ? R : Y)); rect(rev ? x + w - cur : x, 17, cur, 2, V); };
+    bar(14, 96, S.p1, false); bar(146, 96, S.p2, true); rect(112, 12, 32, 18, W); rect(113, 13, 30, 16, N); },
+  drawHD(S, g) { drawHD37(S, g); PIXPASS(g); },
+  hud(S) { txt(S.p1.ch.toUpperCase(), 14, 6, W, 8); txt(S.p2.ch.toUpperCase(), 242, 6, W, 8, 'right'); txt(String(Math.ceil(S.timeLeft)).padStart(2, '0'), 128, 14, Y, 16, 'center');
+    if (S.intro < TUNE37.intro) { if (S.intro < .85) txt('ROUND 1', 128, 84, Y, 24, 'center'); else txt('FIGHT!', 128, 84, R, 32, 'center'); }
+    if (S.combo > 1) txt(S.combo + ' HIT COMBO', 128, 40, Y, 8, 'center'); if (S.throwT > 0) txt(S.throwName, 128, 52, W, 8, 'center');
+    if (S.over > 0) txt(S.timeLeft <= 0 ? 'TIME' : 'K.O.!', 128, 80, Y, 32, 'center'); hintS(S, 'UIO PUNCH  JKL KICK  623+P DP  236+P FIREBALL', 8, 212); },
+  info(S) { const q = f => f.mv ? f.mv.id : f.st; return { x1:Math.round(S.p1.x), x2:Math.round(S.p2.x), hp1:Math.round(S.p1.hp), hp2:Math.round(S.p2.hp), st1:S.p1.st, st2:S.p2.st, mv1:q(S.p1), mv2:q(S.p2), y1:Math.round(S.p1.y), pr:S.pr.length, tl:+S.timeLeft.toFixed(1), c1:S.p1.chB, cr1:S.p1.cr ? 1 : 0, face1:S.p1.face }; },
+  bot(S, i) { S.botOn = true; i.cmdI = {}; return i; } });
+function poseOf37(S, f) {
+  const e = x => Math.max(0, Math.min(1, x));
+  if (f.st === 'atk' && f.mv) { const m = f.mv, [s, a, r] = m.C.f, t = m.t; let env = t <= s ? e(t / s) : t <= s + a ? 1 : e(1 - (t - s - a) / r); let pose = m.C.pose, rot = 0, ph = f.ph;
+    if (m.C.air && !m.special) env = e(t / 3); if (m.special && m.C.flip) { rot = 340 * Math.min(1, (t - m.C.f[0]) / 20); if (t < m.C.f[0]) rot = 0; env = 1; } if (m.special && m.C.spin) { pose = (Math.floor(t / 4) & 1) ? 'tatsu2' : 'tatsu'; env = t < s ? e(t / s) : 1; if (t > s + a) env = e(1 - (t - s - a) / r); }
+    if (m.special && m.C.pose === 'dp') { env = t < s ? e(t / s) : 1; } return { pose, env, ph, rot }; }
+  if (f.st === 'hit') return { pose:f.cr ? 'hitc' : 'hit', env:1, ph:0 }; if (f.st === 'block') return { pose:f.cr ? 'blockc' : 'block', env:1, ph:0 };
+  if (f.st === 'knock') return { pose:'knock', env:1, ph:0, rot:Math.min(120, f.t * 8) * -1 * 0 + Math.min(140, f.t * 10) };
+  if (f.st === 'ko') return { pose:'ko', env:1, ph:0 }; if (f.st === 'getup') return { pose:'getup', env:1, ph:0 };
+  if (f.st === 'held') return { pose:'hit', env:1, ph:0 }; if (f.st === 'grab') return { pose:f.t < 12 ? 'grab' : 'throw', env:f.t < 12 ? Math.min(1, f.t / 6) : 1, ph:0 };
+  if (f.st === 'jump') return { pose:'jump', env:1, ph:0 }; if (f.st === 'crouch' || f.cr) return { pose:'crouch', env:1, ph:f.ph }; if (f.st === 'walk') return { pose:'walk', env:1, ph:f.ph * 1.0 };
+  return { pose:'idle', env:1, ph:f.ph }; }
+/* QA/doc hook: window.__posesheet(char, [poses]) draws a labelled pose sheet into the screen canvas and returns a data URL (used for docs/G37-MOVELIST.md art) */
+window.__posesheet = (ch, names) => { rect(0, 0, 256, 224, K); rect(0, 150, 256, 74, DG); rect(0, 150, 256, 2, L);
+  names.forEach((p, i) => { const col = i % 4, row = Math.floor(i / 4), x = 32 + col * 64, y = 70 + row * 70, free = /^j|dp|flash|tatsu|knock/.test(p); PRIG.draw('fighter', ch, p, x, y + (free ? -6 : 0), 1, 0.5, { sc:56, env:1, rot:p === 'flash' ? 200 : p === 'knock' ? 60 : 0 }); txt(p, x, y + 6, W, 8, 'center'); });
+  for (let i = 0; i < buf.length; i++) px32[i] = PAL32[buf[i]]; ctx.putImageData(img, 0, 0); return document.getElementById('screen').toDataURL(); };

diff --git a/kit/cabinet/pixrig.js b/kit/cabinet/pixrig.js
@@ -41,7 +41,7 @@ const PRIG = (() => {
 
   /* ---- IK fighter poses (SF2-style move sets). Every pose is a handful of numbers: lean (deg), hip height, feet (x from hip, height above ground), hands (x,y relative to shoulder).
      skelG(pose, env, ph): env 0..1 blends guard -> pose peak (the game drives it from startup/active/recovery), ph = walk phase / spin phase, flips handled by `rot` (deg, + = backwards). */
-  const GUARD = { lean:6, hip:58, fa:[24, 0], fb:[-24, 0], ha:[28, 0], hb:[18, 8] };
+  const GUARD = { lean:8, hip:52, fa:[28, 0], fb:[-30, 0], ha:[28, 2], hb:[18, 8] };
   const PG = {
     idle:GUARD, crouch:{ lean:12, hip:36, fa:[34, 0], fb:[-26, 0], ha:[28, -6], hb:[18, 0] },
     jab:{ lean:8, hip:58, fa:[26, 0], fb:[-24, 0], ha:[62, 2], hb:[18, 8] }, cross:{ lean:12, hip:56, fa:[30, 0], fb:[-30, 0], ha:[68, 0], hb:[20, 6] }, hpunch:{ lean:18, hip:52, fa:[34, 0], fb:[-36, 0], ha:[76, -2], hb:[18, 6] },
@@ -56,16 +56,19 @@ const PRIG = (() => {
     sonic:{ lean:8, hip:56, fa:[34, 0], fb:[-34, 0], ha:[62, -2], hb:[-24, 12] }, flash:{ lean:0, hip:78, fa:[44, 104], fb:[-14, 40], ha:[10, 22], hb:[-10, 18] },
     hit:{ lean:-16, hip:58, fa:[16, 0], fb:[-20, 0], ha:[-10, -26], hb:[-22, -16] }, hitc:{ lean:-8, hip:36, fa:[34, 0], fb:[-26, 0], ha:[-6, -18], hb:[-14, -12] }, block:{ lean:2, hip:50, fa:[26, 0], fb:[-26, 0], ha:[24, 14], hb:[18, 20] }, blockc:{ lean:6, hip:34, fa:[34, 0], fb:[-26, 0], ha:[22, 10], hb:[16, 14] },
     knock:{ lean:-50, hip:70, fa:[20, 20], fb:[-10, 10], ha:[-20, 10], hb:[-30, 4] }, ko:{ lean:0, hip:62, fa:[6, 0], fb:[-6, 0], ha:[10, -34], hb:[-6, -30] }, getup:{ lean:30, hip:34, fa:[30, 0], fb:[-20, 0], ha:[24, -14], hb:[12, -10] } };
-  const ik = (r, p, l1, l2, sg) => { let dx = p[0] - r[0], dy = p[1] - r[1], d = Math.hypot(dx, dy), mx = l1 + l2 - 0.5; if (d > mx) { dx *= mx / d; dy *= mx / d; d = mx; } if (d < 1) d = 1;
-    const a = Math.acos(Math.max(-1, Math.min(1, (l1 * l1 + d * d - l2 * l2) / (2 * l1 * d)))), b = Math.atan2(dy, dx) + sg * a; const m = [r[0] + l1 * Math.cos(b), r[1] + l1 * Math.sin(b)]; return [m, [r[0] + dx, r[1] + dy]]; };
+  /* 2-bone IK. kind 'leg': knee on the +x (forward) side; kind 'arm': elbow on the lower side. (A fixed sign bent the knees BACKWARDS: that was the awkward-legs bug.) */
+  const ik = (r, p, l1, l2, kind) => { let dx = p[0] - r[0], dy = p[1] - r[1], d = Math.hypot(dx, dy), mx = l1 + l2 - 0.5; if (d > mx) { dx *= mx / d; dy *= mx / d; d = mx; } if (d < 1) d = 1;
+    const a = Math.acos(Math.max(-1, Math.min(1, (l1 * l1 + d * d - l2 * l2) / (2 * l1 * d)))), b0 = Math.atan2(dy, dx); let best = null;
+    for (const sg of [-1, 1]) { const b = b0 + sg * a, m = [r[0] + l1 * Math.cos(b), r[1] + l1 * Math.sin(b)], sc = kind === 'leg' ? m[0] : -m[1] - 0.15 * m[0]; if (!best || sc > best.sc) best = { m, sc }; }
+    return [best.m, [r[0] + dx, r[1] + dy]]; };
   const mix = (a, b, e) => a + (b - a) * e, mix2 = (a, b, e) => [mix(a[0], b[0], e), mix(a[1], b[1], e)];
   function skelG(pose, env, ph, rotDeg) {
     const P = PG[pose] || GUARD, e = Math.max(0, Math.min(1, env === undefined ? 1 : env)), base = (pose === 'idle' || pose === 'walk') ? GUARD : (/^(crouch|cjab|cupper|clkick|cmkick|sweep|hitc|blockc)/.test(pose) ? PG.crouch : (/^j/.test(pose) ? PG.jump : GUARD)); const J = {};
     const lean = mix(base.lean, P.lean, e), hipy = mix(base.hip, P.hip, e) + (pose === 'idle' ? 2 * Math.sin(ph || 0) : 0); let fa = mix2(base.fa, P.fa, e), fb = mix2(base.fb, P.fb, e), ha = mix2(base.ha, P.ha, e), hb = mix2(base.hb, P.hb, e);
     if (pose === 'walk') { const s = Math.sin(ph), c = Math.cos(ph); fa = [24 + 14 * s, 14 * Math.max(0, c)]; fb = [-24 - 14 * s, 14 * Math.max(0, -c)]; }
     J.hip = [0, hipy]; J.sh = [44 * Math.sin(lean * Math.PI / 180), hipy + 44 * Math.cos(lean * Math.PI / 180)]; J.head = [J.sh[0] + 17 * Math.sin((lean - 4) * Math.PI / 180), J.sh[1] + 17 * Math.cos((lean - 4) * Math.PI / 180)];
-    [J.kneeA, J.footA] = ik(J.hip, [fa[0], fa[1]], 33, 33, -1); [J.kneeB, J.footB] = ik(J.hip, [fb[0], fb[1]], 33, 33, -1);
-    [J.elbA, J.handA] = ik(J.sh, [J.sh[0] + ha[0], J.sh[1] + ha[1]], 27, 26, 1); [J.elbB, J.handB] = ik(J.sh, [J.sh[0] + hb[0], J.sh[1] + hb[1]], 27, 26, 1);
+    [J.kneeA, J.footA] = ik([J.hip[0] + 3, J.hip[1]], [fa[0], fa[1]], 33, 33, 'leg'); [J.kneeB, J.footB] = ik([J.hip[0] - 3, J.hip[1]], [fb[0], fb[1]], 33, 33, 'leg');
+    [J.elbA, J.handA] = ik(J.sh, [J.sh[0] + ha[0], J.sh[1] + ha[1]], 27, 26, 'arm'); [J.elbB, J.handB] = ik(J.sh, [J.sh[0] + hb[0], J.sh[1] + hb[1]], 27, 26, 'arm');
     const rot = (rotDeg || 0) * Math.PI / 180; if (rot) { const c = J.hip, cs = Math.cos(rot), sn = Math.sin(rot); for (const k in J) { const x = J[k][0] - c[0], y = J[k][1] - c[1]; J[k] = [c[0] + x * cs - y * sn, c[1] + x * sn + y * cs]; } }
     J.lying = pose === 'ko'; J.free = !!rot || /^j|dp|flash|tatsu|knock/.test(pose);
     if (J.lying) { const c = J.hip; for (const k in J) if (typeof J[k] === 'object') { const x = J[k][0] - c[0], y = J[k][1] - c[1]; J[k] = [c[0] - y, c[1] + x]; } const my = (J.hip[1] + J.sh[1] + J.head[1] + J.footA[1] + J.footB[1]) / 5; for (const k in J) if (typeof J[k] === 'object') J[k] = [J[k][0] - 6, J[k][1] - my + 12]; }
@@ -169,5 +172,5 @@ const PRIG = (() => {
     for (let yy = 0; yy < SH; yy++) for (let xx = 0; xx < SW; xx++) { const c = lay[yy * SW + xx]; if (c < 0) continue; px(Math.round(x) + xx - cx, Math.round(y) + yy - cy, c === 99 ? K : (fl ? W : c)); }
     const m = S.muzzle; return { fist: [Math.round(x) + S.handA[0] - cx, Math.round(y) + S.handA[1] - cy], foot: [Math.round(x) + S.footA[0] - cx, Math.round(y) + S.footA[1] - cy], muzzle: m ? [Math.round(x) + m[0] - cx, Math.round(y) + m[1] - cy] : null, head: [Math.round(x) + S.head[0] - cx, Math.round(y) + S.head[1] - cy], chest: [Math.round(x) + S.sh[0] - cx, Math.round(y) + S.sh[1] - cy + 4] };
   }
-  return { draw, skel };
+  return { draw, skel, skelG };
 })();
